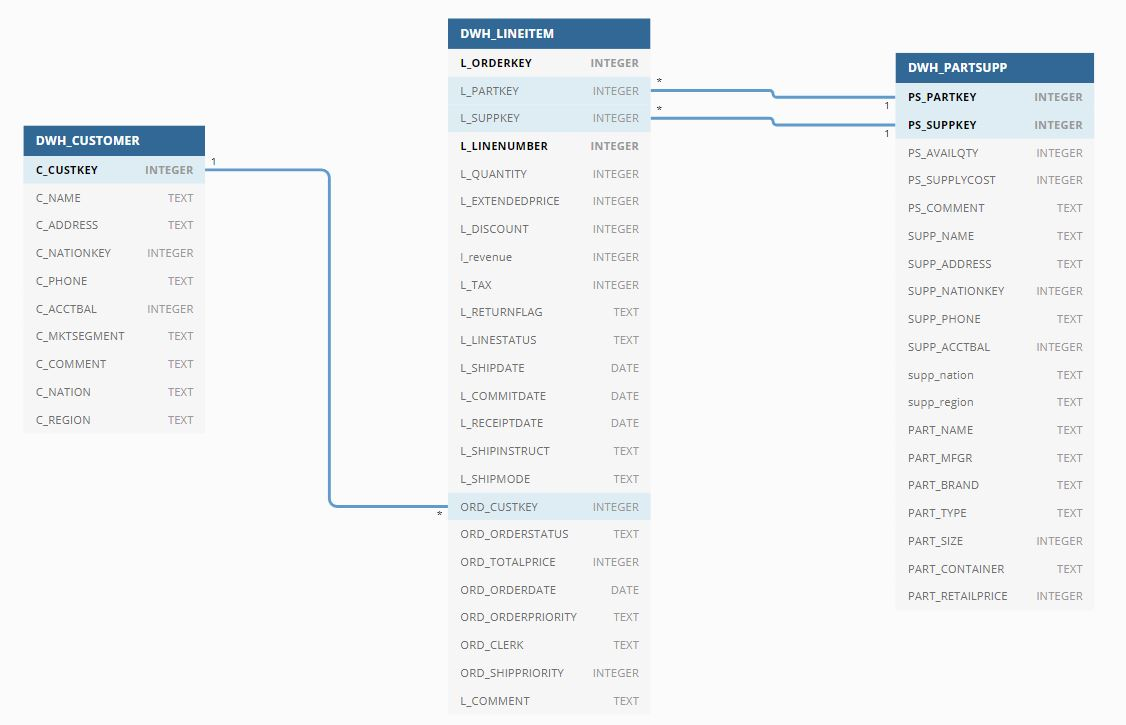
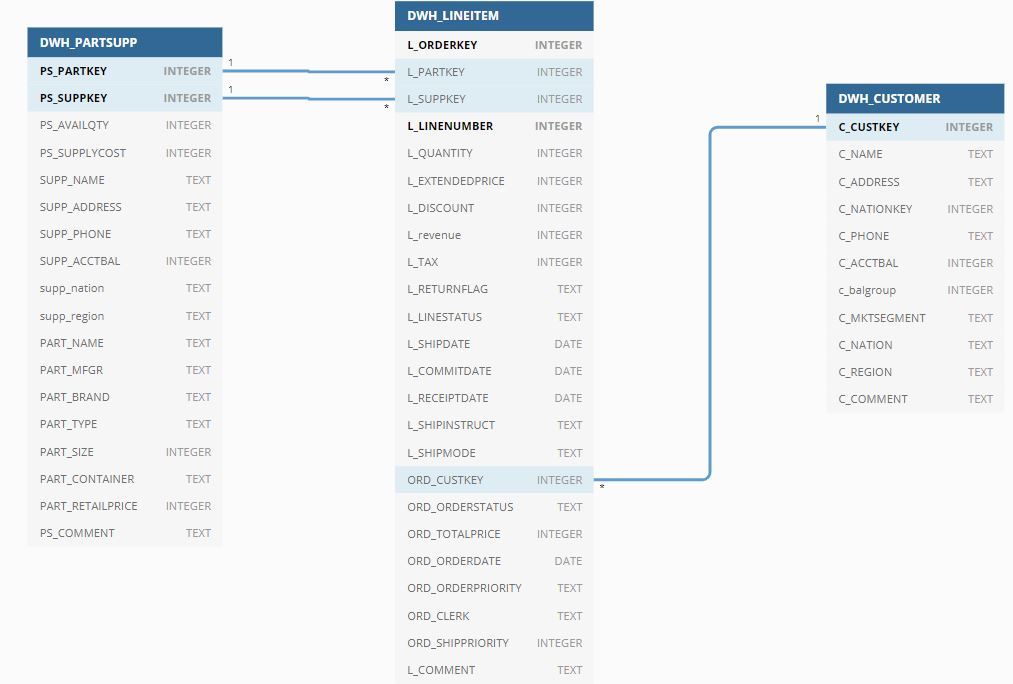
modified readme

diff --git a/README.md b/README.md
@@ -52,7 +52,8 @@ To get the bonus points, please encoded the file with the instructions were used
 			- filename_suffix : The suffix for files.
 			- info_threshold : After how many insert a info logging should be created.
 			- insert_query : Insert query for all the tables.
-		- Script ./tp_loader.py is using above configuration to load the data into database.
+		- Script ./tp_loader.py is using above configuration to load the data into database. below script can be run to standalone run the loading process.
+		
 				`python tp_loader.py`
 
 3. Design a star schema model which the data should flow.
@@ -68,6 +69,18 @@ To get the bonus points, please encoded the file with the instructions were used
 - add a fields to classify the customer account balance in 3 groups 
 - add revenue per line item 
 - convert the dates to be distributed over the last 2 years
+
+	- Solution
+		- Using .dlayer.databaseconnection.databaseConnection class process is connecting to sqllite database.
+		- With the help of .tp_configuration.util.load_config function, we are loading below configuration from .tp_configuration/dwh_config.yaml file.
+			- dwh_customer : Query to insert the records in dwh_customer table. Query is joining region, nation, customer tables to get the data.
+			- dwh_partsupp : Query to insert the records in dwh_partsupp table. Query is joining region, nation, part, partsupp and supplier table.
+			- dwh_lineitem : Query to insert the records in dwh_lineitem table. Query is joining lineitem and orders table.
+		- The dwh_customer table has added column for 3 groups for account balance (dwh_customer.c_balgroup).
+		- The dwh_lineitem table has added column for revenue per line item (dwh_customer.c_balgroup).
+		- Script ./dwh_loader.py is using above configuration to load the data into dwh tables.
+		
+				`python dwh_loader.py`
 
 5. How to schedule this process to run multiple times per day?
  
